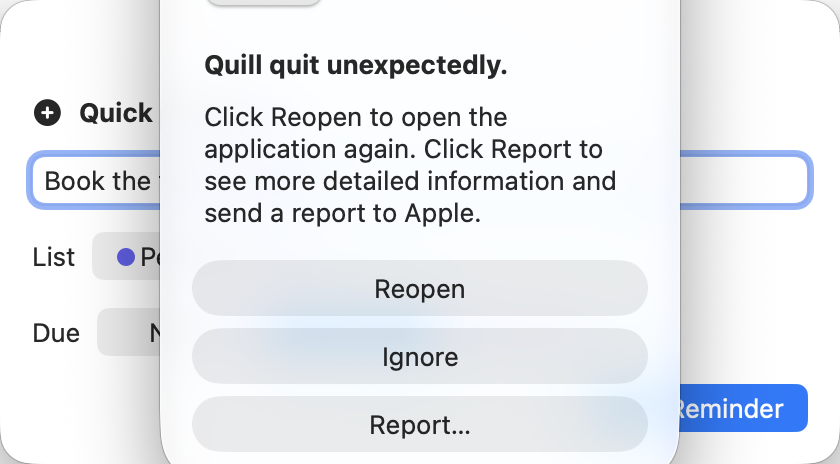
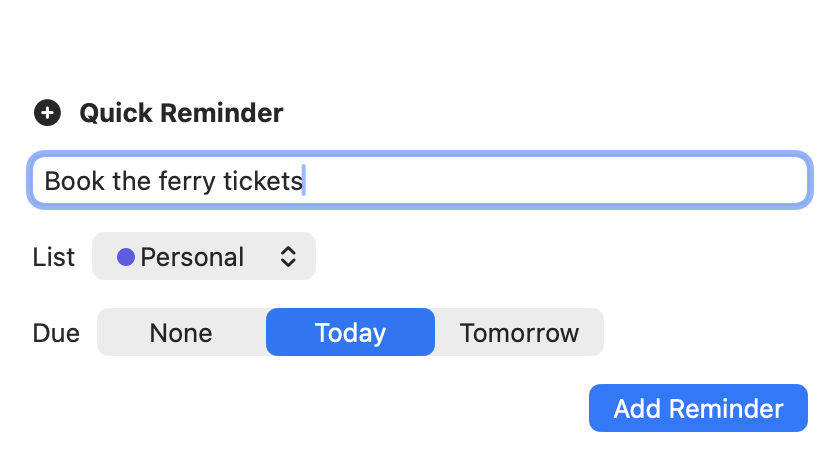
Fix the review findings
Keep each window's open edit to itself, keep saving after Keep Editing,
wait for completions on quit, and hold Quick Entry open while it submits
so nothing is sent twice. Drafts now keep their list and due date.

diff --git a/TaskFerry/Services/ReminderEditSession.swift b/TaskFerry/Services/ReminderEditSession.swift
@@ -19,6 +19,12 @@ final class ReminderEditSession: Identifiable {
     private(set) var phase = Phase.editing
     private(set) var error: String?
     @ObservationIgnored private var saveTask: Task<Bool, Never>?
+    /// What the bridge last accepted. An editor can stay open after a save, when you choose to keep
+    /// editing rather than quit, so anything typed after it still has to go through.
+    @ObservationIgnored private var savedValue: ReminderRecord?
+
+    /// True when there's something a save would still have to send.
+    var hasUnsavedChanges: Bool { phase != .discarded && updated != (savedValue ?? original) }
 
     init(_ reminder: ReminderRecord, connectionRevision: Int? = nil) {
         original = reminder
@@ -50,7 +56,6 @@ final class ReminderEditSession: Identifiable {
     /// Coalesces Return, disappearance and completion into one mutation. A failure is retryable.
     func commit(_ save: @escaping @MainActor (ReminderRecord) async -> String?) async -> Bool {
         if let saveTask { return await saveTask.value }
-        if phase == .saved { return true }
         if phase == .discarded { return false }
         let value = updated
         guard !value.title.isEmpty, !value.listID.isEmpty else {
@@ -58,7 +63,7 @@ final class ReminderEditSession: Identifiable {
             phase = .failed
             return false
         }
-        guard value != original else {
+        guard value != (savedValue ?? original) else {
             phase = .saved
             return true
         }
@@ -70,6 +75,7 @@ final class ReminderEditSession: Identifiable {
                 self.phase = .failed
                 return false
             }
+            self.savedValue = value
             self.phase = .saved
             return true
         }
@@ -82,7 +88,7 @@ final class ReminderEditSession: Identifiable {
 
 extension AppState {
     func saveEditWhenLeaving(_ session: ReminderEditSession, undoManager: UndoManager?) {
-        guard mode == .remote, session.phase == .editing || session.phase == .saving else { return }
+        guard mode == .remote, session.phase != .failed, session.phase != .discarded else { return }
         // Retain synchronously so immediately reopening the row joins this same draft/save.
         unsavedEdits[session.id] = session
         Task { await saveEdit(session, undoManager: undoManager) }
@@ -116,7 +122,8 @@ extension AppState {
     /// Edits that quitting now would lose, including ones that failed to save earlier.
     var editsAtRisk: [ReminderEditSession] {
         guard mode == .remote else { return [] }
-        return unsavedEdits.values.filter { $0.phase != .saved && $0.phase != .discarded }
+        let edits: [UUID: ReminderEditSession] = unsavedEdits.merging(openEdits) { kept, _ in kept }
+        return edits.values.filter { $0.hasUnsavedChanges }
     }
 
     /// Saves everything before the app quits, giving up after `timeout` because an unreachable
@@ -129,7 +136,7 @@ extension AppState {
             finished = true
         }
         let deadline = ContinuousClock.now + timeout
-        while !finished, ContinuousClock.now < deadline {
+        while !finished || !completingIDs.isEmpty, ContinuousClock.now < deadline {
             try? await Task.sleep(for: .milliseconds(50))
         }
         return editsAtRisk

diff --git a/TaskFerry/TaskFerryApp.swift b/TaskFerry/TaskFerryApp.swift
@@ -111,6 +111,7 @@ private struct TaskFerryCommands: Commands {
             .keyboardShortcut("s", modifiers: [.control, .command])
             .disabled(actions == nil)
         }
+        ToolbarCommands()
 
         CommandGroup(after: .appInfo) {
             CheckForUpdatesButton()
@@ -293,10 +294,11 @@ final class TaskFerryApplicationDelegate: NSObject, NSApplicationDelegate {
 
     /// An open edit is only saved when you leave it, so quitting has to wait for the bridge.
     func applicationShouldTerminate(_ sender: NSApplication) -> NSApplication.TerminateReply {
-        guard !state.editsAtRisk.isEmpty else { return .terminateNow }
+        guard !state.editsAtRisk.isEmpty || !state.completingIDs.isEmpty else { return .terminateNow }
         Task { @MainActor in
             let unsaved = await state.finishEdits()
-            sender.reply(toApplicationShouldTerminate: unsaved.isEmpty || confirmQuit(losing: unsaved))
+            let isSafe = unsaved.isEmpty && state.completingIDs.isEmpty
+            sender.reply(toApplicationShouldTerminate: isSafe || confirmQuit(losing: unsaved))
         }
         return .terminateLater
     }
@@ -304,10 +306,13 @@ final class TaskFerryApplicationDelegate: NSObject, NSApplicationDelegate {
     private func confirmQuit(losing edits: [ReminderEditSession]) -> Bool {
         NSApp.activate()
         let alert = NSAlert()
-        alert.messageText = edits.count == 1
-            ? String(localized: "“\(edits[0].title)” couldn’t be saved")
-            : String(localized: "\(edits.count) edits couldn’t be saved")
-        alert.informativeText = String(localized: "Task Ferry can’t reach your bridge. If you quit now, these changes will be lost.")
+        switch edits.count {
+        case 0: alert.messageText = String(localized: "Reminders are still being completed")
+        case 1: alert.messageText = String(localized: "“\(edits[0].title)” couldn’t be saved")
+        default: alert.messageText = String(localized: "\(edits.count) edits couldn’t be saved")
+        }
+        let reason = edits.count == 1 ? edits[0].error : nil
+        alert.informativeText = reason ?? String(localized: "Task Ferry can’t reach your bridge. If you quit now, these changes will be lost.")
         alert.addButton(withTitle: String(localized: "Keep Editing"))
         alert.addButton(withTitle: String(localized: "Quit Anyway")).hasDestructiveAction = true
         return alert.runModal() == .alertSecondButtonReturn

diff --git a/TaskFerry/App/QuickEntryPanelController.swift b/TaskFerry/App/QuickEntryPanelController.swift
@@ -11,6 +11,9 @@ final class QuickEntryPanelController: NSObject, NSWindowDelegate {
     private var panel: QuickEntryPanel?
     private weak var originatingWindow: NSWindow?
     private var draft: Draft?
+    /// The panel stays until the bridge answers, so nothing can be sent twice and a failure has
+    /// somewhere to show.
+    private var isSubmitting = false
 
     private struct Draft {
         var title: String
@@ -21,7 +24,7 @@ final class QuickEntryPanelController: NSObject, NSWindowDelegate {
 
     func toggle(state: AppState) {
         if panel?.isVisible == true {
-            close()
+            if !isSubmitting { close() }
         } else {
             show(state: state)
         }
@@ -37,6 +40,10 @@ final class QuickEntryPanelController: NSObject, NSWindowDelegate {
     ) {
         guard state.mode == .remote else {
             WindowRouter.shared.showMainWindow()
+            return
+        }
+        if isSubmitting {
+            panel?.makeKeyAndOrderFront(nil)
             return
         }
         close(restoreFocus: false)
@@ -77,13 +84,10 @@ final class QuickEntryPanelController: NSObject, NSWindowDelegate {
             initialListID: opening.listID,
             initialDue: opening.due,
             onFinish: { [weak self] in self?.finish() },
-            onTitleChange: { [weak self] title in
-                guard let self else { return }
-                if self.draft == nil {
-                    self.draft = opening
-                }
-                self.draft?.title = title
-            }
+            onDraftChange: { [weak self] title, listID, due in
+                self?.draft = title.isEmpty ? nil : Draft(title: title, notes: opening.notes, listID: listID, due: due)
+            },
+            onSubmittingChange: { [weak self] in self?.isSubmitting = $0 }
         ))
         panel.contentView = hostingView
         panel.setContentSize(hostingView.fittingSize)
@@ -94,6 +98,7 @@ final class QuickEntryPanelController: NSObject, NSWindowDelegate {
 
     /// Esc or a finished reminder: there's nothing to come back to.
     private func finish() {
+        guard !isSubmitting else { return }
         draft = nil
         close()
     }
@@ -114,6 +119,7 @@ final class QuickEntryPanelController: NSObject, NSWindowDelegate {
     }
 
     func windowDidResignKey(_ notification: Notification) {
+        guard !isSubmitting else { return }
         close(restoreFocus: false)
     }
 

diff --git a/TaskFerry/Views/QuickEntryView.swift b/TaskFerry/Views/QuickEntryView.swift
@@ -15,8 +15,10 @@ struct QuickEntryView: View {
     var initialListID: String? = nil
     var initialDue: QuickDueOption = .today
     var onFinish: (() -> Void)? = nil
-    /// Told about each change, so typing survives the panel closing when you click elsewhere.
-    var onTitleChange: ((String) -> Void)? = nil
+    /// Told about each change, so a draft survives the panel closing when you click elsewhere.
+    var onDraftChange: ((_ title: String, _ listID: String, _ due: QuickDueOption) -> Void)? = nil
+    /// The panel has to stay put while a reminder is on its way.
+    var onSubmittingChange: ((Bool) -> Void)? = nil
 
     @State private var title = ""
     @State private var listID = ""
@@ -122,7 +124,10 @@ struct QuickEntryView: View {
             selectDefaultListIfNeeded()
         }
         .onChange(of: state.snapshot.lists) { _, _ in selectDefaultListIfNeeded() }
-        .onChange(of: title) { _, title in onTitleChange?(title) }
+        .onChange(of: title) { reportDraft() }
+        .onChange(of: listID) { reportDraft() }
+        .onChange(of: due) { reportDraft() }
+        .onChange(of: isSubmitting) { _, isSubmitting in onSubmittingChange?(isSubmitting) }
         .onChange(of: state.preferredNewReminderListID) { _, _ in
             if initialListID == nil { listID = state.newReminderListID ?? "" }
         }
@@ -142,6 +147,7 @@ struct QuickEntryView: View {
                 notes: initialNotes
             )
             isSubmitting = false
+            onSubmittingChange?(false)
             guard outcome.succeeded else {
                 addError = state.errorMessage
                 titleFocused = true
@@ -159,6 +165,10 @@ struct QuickEntryView: View {
                 withAnimation(reduceMotion ? nil : .default) { confirmation = nil }
             }
         }
+    }
+
+    private func reportDraft() {
+        onDraftChange?(title, listID, due)
     }
 
     private func openMainWindow() {

diff --git a/TaskFerry/AppState.swift b/TaskFerry/AppState.swift
@@ -101,6 +101,9 @@ final class AppState {
     var dockBadgeScope: DockBadgeScope
     var navigationRequest: NavigationRequest?
     var unsavedEdits: [UUID: ReminderEditSession] = [:]
+    /// The edit each window has open, so quitting can save them. Unlike `unsavedEdits`, windows
+    /// never pick these up: each one edits its own copy.
+    @ObservationIgnored var openEdits: [UUID: ReminderEditSession] = [:]
     /// Reminders being completed, which show their tick straight away.
     private(set) var completingIDs: Set<String> = []
     /// Reminders whose completion hasn't been confirmed but which have left the lists.
@@ -416,6 +419,7 @@ final class AppState {
         let previousMode = mode
         for draft in unsavedEdits.values { draft.discard() }
         unsavedEdits.removeAll()
+        openEdits.removeAll()
         startGeneration += 1
         startTask?.cancel()
         startTask = nil
@@ -620,6 +624,8 @@ final class AppState {
     /// the row leaves shortly after. A reminder that fails to complete comes back. Returns the IDs
     /// that really completed.
     func completeNow(_ reminders: [ReminderRecord]) async -> [String] {
+        // Already on its way, from a click and the menu at once.
+        let reminders = reminders.filter { !completingIDs.contains($0.id) }
         let ids = Set(reminders.map(\.id))
         completingIDs.formUnion(ids)
         let leave = Task { @MainActor [weak self] in
@@ -693,6 +699,7 @@ final class AppState {
             snapshotCache.clear()
             for draft in unsavedEdits.values { draft.discard() }
             unsavedEdits.removeAll()
+            openEdits.removeAll()
             navigationRequest = nil
             preferredNewReminderListID = nil
             defaults.removeObject(forKey: AppPreferences.newReminderListID)

diff --git a/TaskFerry/Views/RemindersWorkspaceView.swift b/TaskFerry/Views/RemindersWorkspaceView.swift
@@ -164,7 +164,14 @@ struct RemindersWorkspaceView: View {
         .toolbar { ToolbarSpacer(.flexible) }
         .navigationTitle(displayTitle)
         .focusedSceneValue(\.workspaceActions, workspaceActions)
-        .onDisappear { persistCurrentEditor() }
+        .onDisappear {
+            persistCurrentEditor()
+            if let editingSession { state.openEdits[editingSession.id] = nil }
+        }
+        .onChange(of: editingSession?.id) { previous, _ in
+            if let previous { state.openEdits[previous] = nil }
+            if let editingSession { state.openEdits[editingSession.id] = editingSession }
+        }
         .onChange(of: storedSelection) { _, _ in
             selection = []
             endEditing()
@@ -759,8 +766,6 @@ struct RemindersWorkspaceView: View {
         selection = [id]
         editingSession = state.unsavedEdits.values.first(where: { $0.original.id == id })
             ?? state.reminder(for: id).map { ReminderEditSession($0, connectionRevision: state.connectionRevision) }
-        // Known to the app from the start, so quitting can save it.
-        if let editingSession { state.unsavedEdits[editingSession.id] = editingSession }
     }
 
     private func endEditing(restoreFocus: Bool = false) {

diff --git a/TaskFerryTests/ReminderEditSessionTests.swift b/TaskFerryTests/ReminderEditSessionTests.swift
@@ -105,6 +105,20 @@ final class ReminderEditSessionTests: XCTestCase {
         XCTAssertEqual(state.reminder(for: session.original.id)?.title, "Saved on the way out")
     }
 
+    func testTypingAfterASaveStillSaves() async {
+        let state = AppState(isDemo: true)
+        await state.refresh()
+        let session = ReminderEditSession(state.snapshot.reminders[0])
+        session.title = "First"
+        state.openEdits[session.id] = session
+        _ = await state.finishEdits()
+        session.title = "Second"
+        XCTAssertEqual(state.editsAtRisk.map(\.id), [session.id])
+        let saved = await state.saveEdit(session, undoManager: nil)
+        XCTAssertTrue(saved)
+        XCTAssertEqual(state.reminder(for: session.original.id)?.title, "Second")
+    }
+
     func testQuittingReportsAnEditThatCouldNotSave() async {
         let state = AppState(isDemo: true, demoScenario: .mutationFailure)
         await state.refresh()
